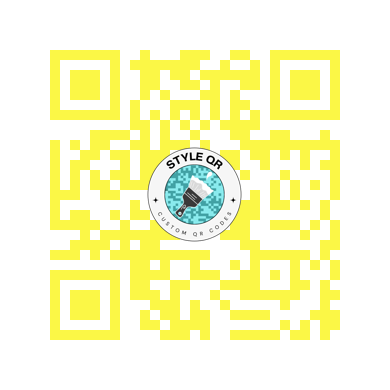
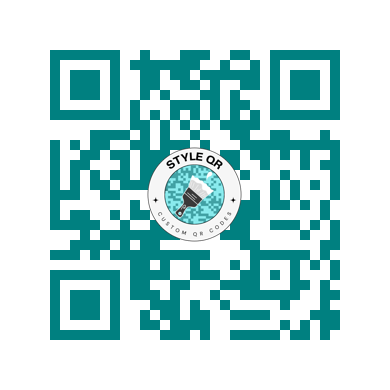
front end changes and added generate business card button feature ( still needs work)

Changed region(s): [[0.1231, 0.1231, 0.8923, 0.8923], [0.6154, 0.4308, 0.6462, 0.4615]]

diff --git a/qr_code_generator.py b/qr_code_generator.py
@@ -1,7 +1,7 @@
 import tkinter as tk
-from tkinter import colorchooser, messagebox, filedialog
+from tkinter import colorchooser, messagebox, filedialog, Toplevel
 import qrcode
-from PIL import ImageTk, Image, ImageDraw
+from PIL import ImageTk, Image, ImageDraw, ImageFont
 import re
 import numpy as np
 
@@ -71,6 +71,11 @@ def open_qr_window():
     download_button = tk.Button(qr_window, text="Download QR Code", command=download_qr_code, bg='#007bff', fg='white')
     download_button.pack(pady=10)
 
+    # Only show the business card button if the user is premium
+    if is_premium:
+        business_card_button = tk.Button(qr_window, text="Generate Business Card", command=lambda: open_business_card_window(qr_window), bg='#28a745', fg='white')
+        business_card_button.pack(pady=5)
+
 def apply_shape_mask(qr_image, shape):
     width, height = qr_image.size
     mask = Image.new("L", (width, height), 255)  # Start with a white mask (opaque)
@@ -83,7 +88,6 @@ def apply_shape_mask(qr_image, shape):
     elif shape == "triangle":
         draw.polygon([(width // 2, 0), (width, height), (0, height)], fill=255)  # Full triangle
 
-    # Ensure the core of the QR code is visible
     qr_image.putalpha(mask)  # Apply mask to the QR code image
     return qr_image
 
@@ -147,58 +151,131 @@ def sign_up_premium():
     global is_premium
     is_premium = True
     messagebox.showinfo("Premium Signup", "You have successfully signed up for premium features!")
+
+    # Show the premium features immediately
     premium_button.pack_forget()  # Hide the premium signup button
-    premium_buttons_frame.pack(pady=10)
+    color_label.config(text="Choose Color (Premium):")  # Update label for premium users
+    color_button = tk.Button(frame, text="Choose Color", command=choose_color, bg='#007bff', fg='white')
+    color_button.pack(pady=5)
 
-# Set up the GUI
+    upload_button = tk.Button(frame, text="Upload Image", command=upload_image, bg='#007bff', fg='white')
+    upload_button.pack(pady=5)
+
+    # Show business card option only for premium users
+    business_card_button = tk.Button(frame, text="Generate Business Card", command=lambda: open_business_card_window(), bg='#28a745', fg='white')
+    business_card_button.pack(pady=5)
+
+def open_business_card_window():
+    business_card_window = Toplevel(root)
+    business_card_window.title("Enter Business Card Information")
+
+    # Professional layout for business card window
+    business_card_window.geometry("400x300")
+
+    # Title and styling
+    title_label = tk.Label(business_card_window, text="Style QR - Business Card", font=("Helvetica", 16, "bold"), fg="#28a745")
+    title_label.pack(pady=10)
+
+    # Input fields for business card details
+    name_label = tk.Label(business_card_window, text="Name:", font=('Helvetica', 12))
+    name_label.pack(pady=5)
+    name_entry = tk.Entry(business_card_window, font=('Helvetica', 12), width=30)
+    name_entry.pack(pady=5)
+
+    title_label = tk.Label(business_card_window, text="Title:", font=('Helvetica', 12))
+    title_label.pack(pady=5)
+    title_entry = tk.Entry(business_card_window, font=('Helvetica', 12), width=30)
+    title_entry.pack(pady=5)
+
+    contact_label = tk.Label(business_card_window, text="Contact Info:", font=('Helvetica', 12))
+    contact_label.pack(pady=5)
+    contact_entry = tk.Entry(business_card_window, font=('Helvetica', 12), width=30)
+    contact_entry.pack(pady=5)
+
+    generate_button = tk.Button(business_card_window, text="Generate Business Card", command=lambda: generate_business_card(name_entry.get(), title_entry.get(), contact_entry.get()), bg="#28a745", fg="white")
+    generate_button.pack(pady=20)
+
+def generate_business_card(name, title, contact):
+    if not name or not title or not contact:
+        messagebox.showwarning("Input Error", "Please fill in all fields.")
+        return
+
+    try:
+        qr_img = Image.open("qr_code.png")
+        business_card = create_business_card(qr_img, name, title, contact)
+
+        # Show the generated business card
+        business_card.show()
+
+        # Save the business card
+        business_card.save("business_card.png")
+        messagebox.showinfo("Business Card", "Business card has been generated and saved as business_card.png.")
+    except Exception as e:
+        messagebox.showerror("Error", f"An error occurred while generating the business card: {str(e)}")
+
+def create_business_card(qr_img, name, title, contact):
+    business_card = Image.new("RGB", (600, 400), color=(255, 255, 255))
+    draw = ImageDraw.Draw(business_card)
+
+    # Draw QR code
+    qr_img_resized = qr_img.resize((150, 150))
+    business_card.paste(qr_img_resized, (50, 125))
+
+    # Add text for name, title, and contact information
+    font = ImageFont.load_default()
+    draw.text((200, 50), name, fill="black", font=font)
+    draw.text((200, 100), title, fill="black", font=font)
+    draw.text((200, 150), f"Contact: {contact}", fill="black", font=font)
+
+    return business_card
+
+# GUI Setup
 root = tk.Tk()
-root.title("Style QR")
-root.configure(bg='#f0f0f0')
+root.title("Style QR")  # Title in bold
 
-frame = tk.Frame(root, bg='#ffffff', padx=20, pady=20)
-frame.pack(padx=10, pady=10)
+# Frame setup to fill the entire window
+frame = tk.Frame(root, padx=10, pady=10, bg="#e3f2fd")  # Light blue background for the frame
+frame.pack(fill=tk.BOTH, expand=True)
 
-title_label = tk.Label(frame, text="Style QR", font=('Helvetica', 24, 'bold'), bg='#ffffff', fg='#333333')
-title_label.pack(pady=10)
+# App title at the top
+title_label = tk.Label(frame, text="Style QR", font=("Helvetica", 20, "bold"), fg="#007bff", bg="#e3f2fd")
+title_label.pack(pady=20)
 
-subtitle_label = tk.Label(frame, text="Generate QR Code Here", font=('Helvetica', 14), bg='#ffffff', fg='#555555')
-subtitle_label.pack(pady=5)
-
-url_label = tk.Label(frame, text="Type URL Here:", font=('Helvetica', 14), bg='#ffffff')
+url_label = tk.Label(frame, text="Enter URL:", font=('Helvetica', 12), bg="#e3f2fd")
 url_label.pack(pady=5)
-url_entry = tk.Entry(frame, width=40, font=('Helvetica', 12))
+
+url_entry = tk.Entry(frame, font=('Helvetica', 14), width=30)
 url_entry.pack(pady=5)
 
-color_label = tk.Label(frame, text="Choose Color (Basic):", font=('Helvetica', 14), bg='#ffffff')
+color_label = tk.Label(frame, text="Choose Color:", font=('Helvetica', 12), bg="#e3f2fd")
 color_label.pack(pady=5)
-color_entry = tk.Entry(frame, width=40, font=('Helvetica', 12))
+
+color_entry = tk.Entry(frame, font=('Helvetica', 14), width=30)
 color_entry.pack(pady=5)
 
-shape_var = tk.StringVar(value="square")
-shapes_frame = tk.LabelFrame(frame, text="Choose Shape:", bg='#ffffff', font=('Helvetica', 14))
-shapes_frame.pack(pady=10)
+shape_label = tk.Label(frame, text="Choose Shape:", font=('Helvetica', 12), bg="#e3f2fd")
+shape_label.pack(pady=5)
 
-square_radio = tk.Radiobutton(shapes_frame, text="Square", variable=shape_var, value="square", bg='#ffffff')
-circle_radio = tk.Radiobutton(shapes_frame, text="Circle", variable=shape_var, value="circle", bg='#ffffff')
-triangle_radio = tk.Radiobutton(shapes_frame, text="Triangle", variable=shape_var, value="triangle", bg='#ffffff')
-square_radio.pack(anchor='w')
-circle_radio.pack(anchor='w')
-triangle_radio.pack(anchor='w')
+shape_var = tk.StringVar()
+shape_var.set("square")
 
-generate_button = tk.Button(frame, text="Generate QR Code", command=generate_qr, bg='#28a745', fg='white', font=('Helvetica', 12))
+shapes_frame = tk.Frame(frame, bg="#e3f2fd")
+shapes_frame.pack(pady=5)
+
+square_radio = tk.Radiobutton(shapes_frame, text="Square", variable=shape_var, value="square", bg='#e3f2fd')
+square_radio.pack(side=tk.LEFT, padx=5)
+circle_radio = tk.Radiobutton(shapes_frame, text="Circle", variable=shape_var, value="circle", bg='#e3f2fd')
+circle_radio.pack(side=tk.LEFT, padx=5)
+triangle_radio = tk.Radiobutton(shapes_frame, text="Triangle", variable=shape_var, value="triangle", bg='#e3f2fd')
+triangle_radio.pack(side=tk.LEFT, padx=5)
+
+generate_button = tk.Button(frame, text="Generate QR Code", command=generate_qr, bg='#007bff', fg='#ffffff', font=('Helvetica', 14))
 generate_button.pack(pady=10)
 
-premium_buttons_frame = tk.Frame(frame, bg='#ffffff')
-color_button = tk.Button(premium_buttons_frame, text="Choose Color", command=choose_color, bg='#007bff', fg='white')
-color_button.pack(pady=5)
-
-upload_button = tk.Button(premium_buttons_frame, text="Upload Image", command=upload_image, bg='#007bff', fg='white')
-upload_button.pack(pady=5)
-
-reset_button = tk.Button(frame, text="Reset", command=reset_fields, bg='#ff6f61', fg='white', font=('Helvetica', 12))
+reset_button = tk.Button(frame, text="Reset", command=reset_fields, bg='#dc3545', fg='#ffffff', font=('Helvetica', 14))
 reset_button.pack(pady=5)
 
-premium_button = tk.Button(frame, text="Sign Up for Premium", command=sign_up_premium, bg='#007bff', fg='white', font=('Helvetica', 12))
+premium_button = tk.Button(frame, text="Sign Up for Premium", command=sign_up_premium, bg='#ffcc00', fg='#333333', font=('Helvetica', 14))
 premium_button.pack(pady=10)
 
 root.mainloop()
